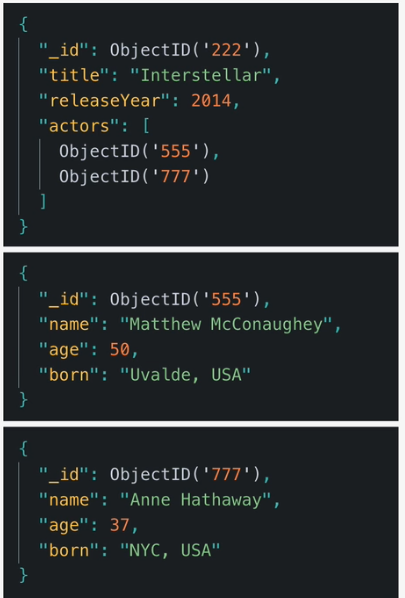
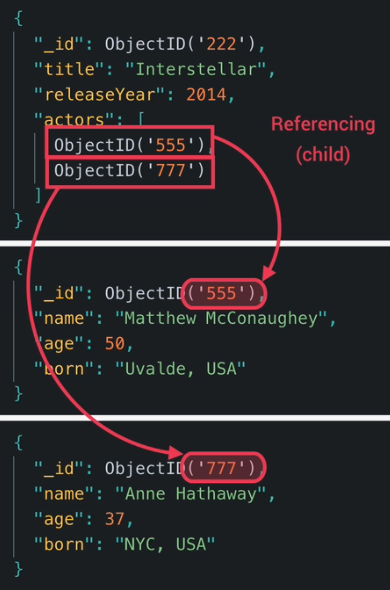
added week 8 Data Modelling

diff --git a/week8_data_modelling/README.md b/week8_data_modelling/README.md
@@ -43,8 +43,55 @@ directly within the main document.
 
 ## Referenced / Normalized
 
+Positive:
+- Performance. It's easier to query the data. We only need to query the data from the referenced document.
+
+Negative:
+
+- We need to keep the data in sync.
+- We need to make sure that the data is not duplicated.
+- We need to make sure that the data is not deleted.
+- We need to make sure that the data is not updated.
+- We need 2 queries to get the data from the referenced document.
+
 ![img.png](img.png)
 
 ## Embedded / Denormalized
 
+Positive:
+
+- Performance. We can get all the information we need in one query.
+
+Negative:
+
+- More data in one document
+- More data to transfer
+- More data to store
+- Impossible to query the embedded data without the main document
+
 ![img_1.png](img_1.png)
+
+
+## When to use Embedded vs Referenced
+
+The decision of whether to use embedded or referenced relationships when modeling a database in MongoDB depends on several factors, such as:
+
+1. Query patterns: If your application needs to retrieve related data frequently and the related data is relatively large, it might be better to use embedded relationships to avoid the overhead of multiple queries. 
+2. Data consistency: If the related data needs to be updated frequently, it might be better to use referenced relationships to avoid duplicating data in multiple places and ensure data consistency. 
+3. Data volume: If the related data is relatively small and the main document has a large volume of data, it might be better to use referenced relationships to avoid bloating the main document. 
+4. Data structure: If the related data has a complex structure, it might be better to use referenced relationships to avoid complex nested data structures.
+
+In general, embedded relationships work best when the related data is small and frequently accessed together with the 
+main document, while referenced relationships work best when the related data is large, frequently updated, or accessed 
+independently of the main document.
+
+It's important to note that there is no one-size-fits-all solution and the decision to use embedded or referenced 
+relationships should be made based on the specific requirements of the application and the data being modeled.
+
+![img_2.png](img_2.png)
+
+## Types of referencing
+
+- child referencing
+- parent referencing
+- two-way referencing

diff --git a/README.md b/README.md
@@ -13,7 +13,7 @@
 | 5 | 01/03/2023     | Group Project 1                                                                  | Define Project. Write API documentation, Frontend Mockup (Figma).       | JORG/THA |
 | 6 | 08/03/2023 | [NodeJS/Express 1](week6_node/README.md) && [Exercise](week6_node/EXERCISE.md)   | Node.js: Read & Write to files, enviroment variables, server, REST API  | JORG |
 | 7 | 15/03/2023     | [Middleware & Error handling & Refactoring & MongoDB ](week7_express/README.md)  |                                                                         | JORG |
-| 8 | 22/03/2023     | [MongoDB Data Modelling](week8_data_modelling/README.md)                                                       |                                                                         | JORG |
+| 8 | 22/03/2023     | [MongoDB Data Modelling](week8_data_modelling/README.md)                                                       |                                          | JORG |
 | 9 | 29/03/2023     | [GraphQL](week9_graphql/README.md)                                               |                                                                         | THA |
 | 10 | 05/04/2023     | Group Project 2                                                                  | Backend project                                                         | JORG/THA |
 | 11 | 12/04/2023     | [React 1](week11_state_management/README.md)                                     | State management                                                        | THA |
